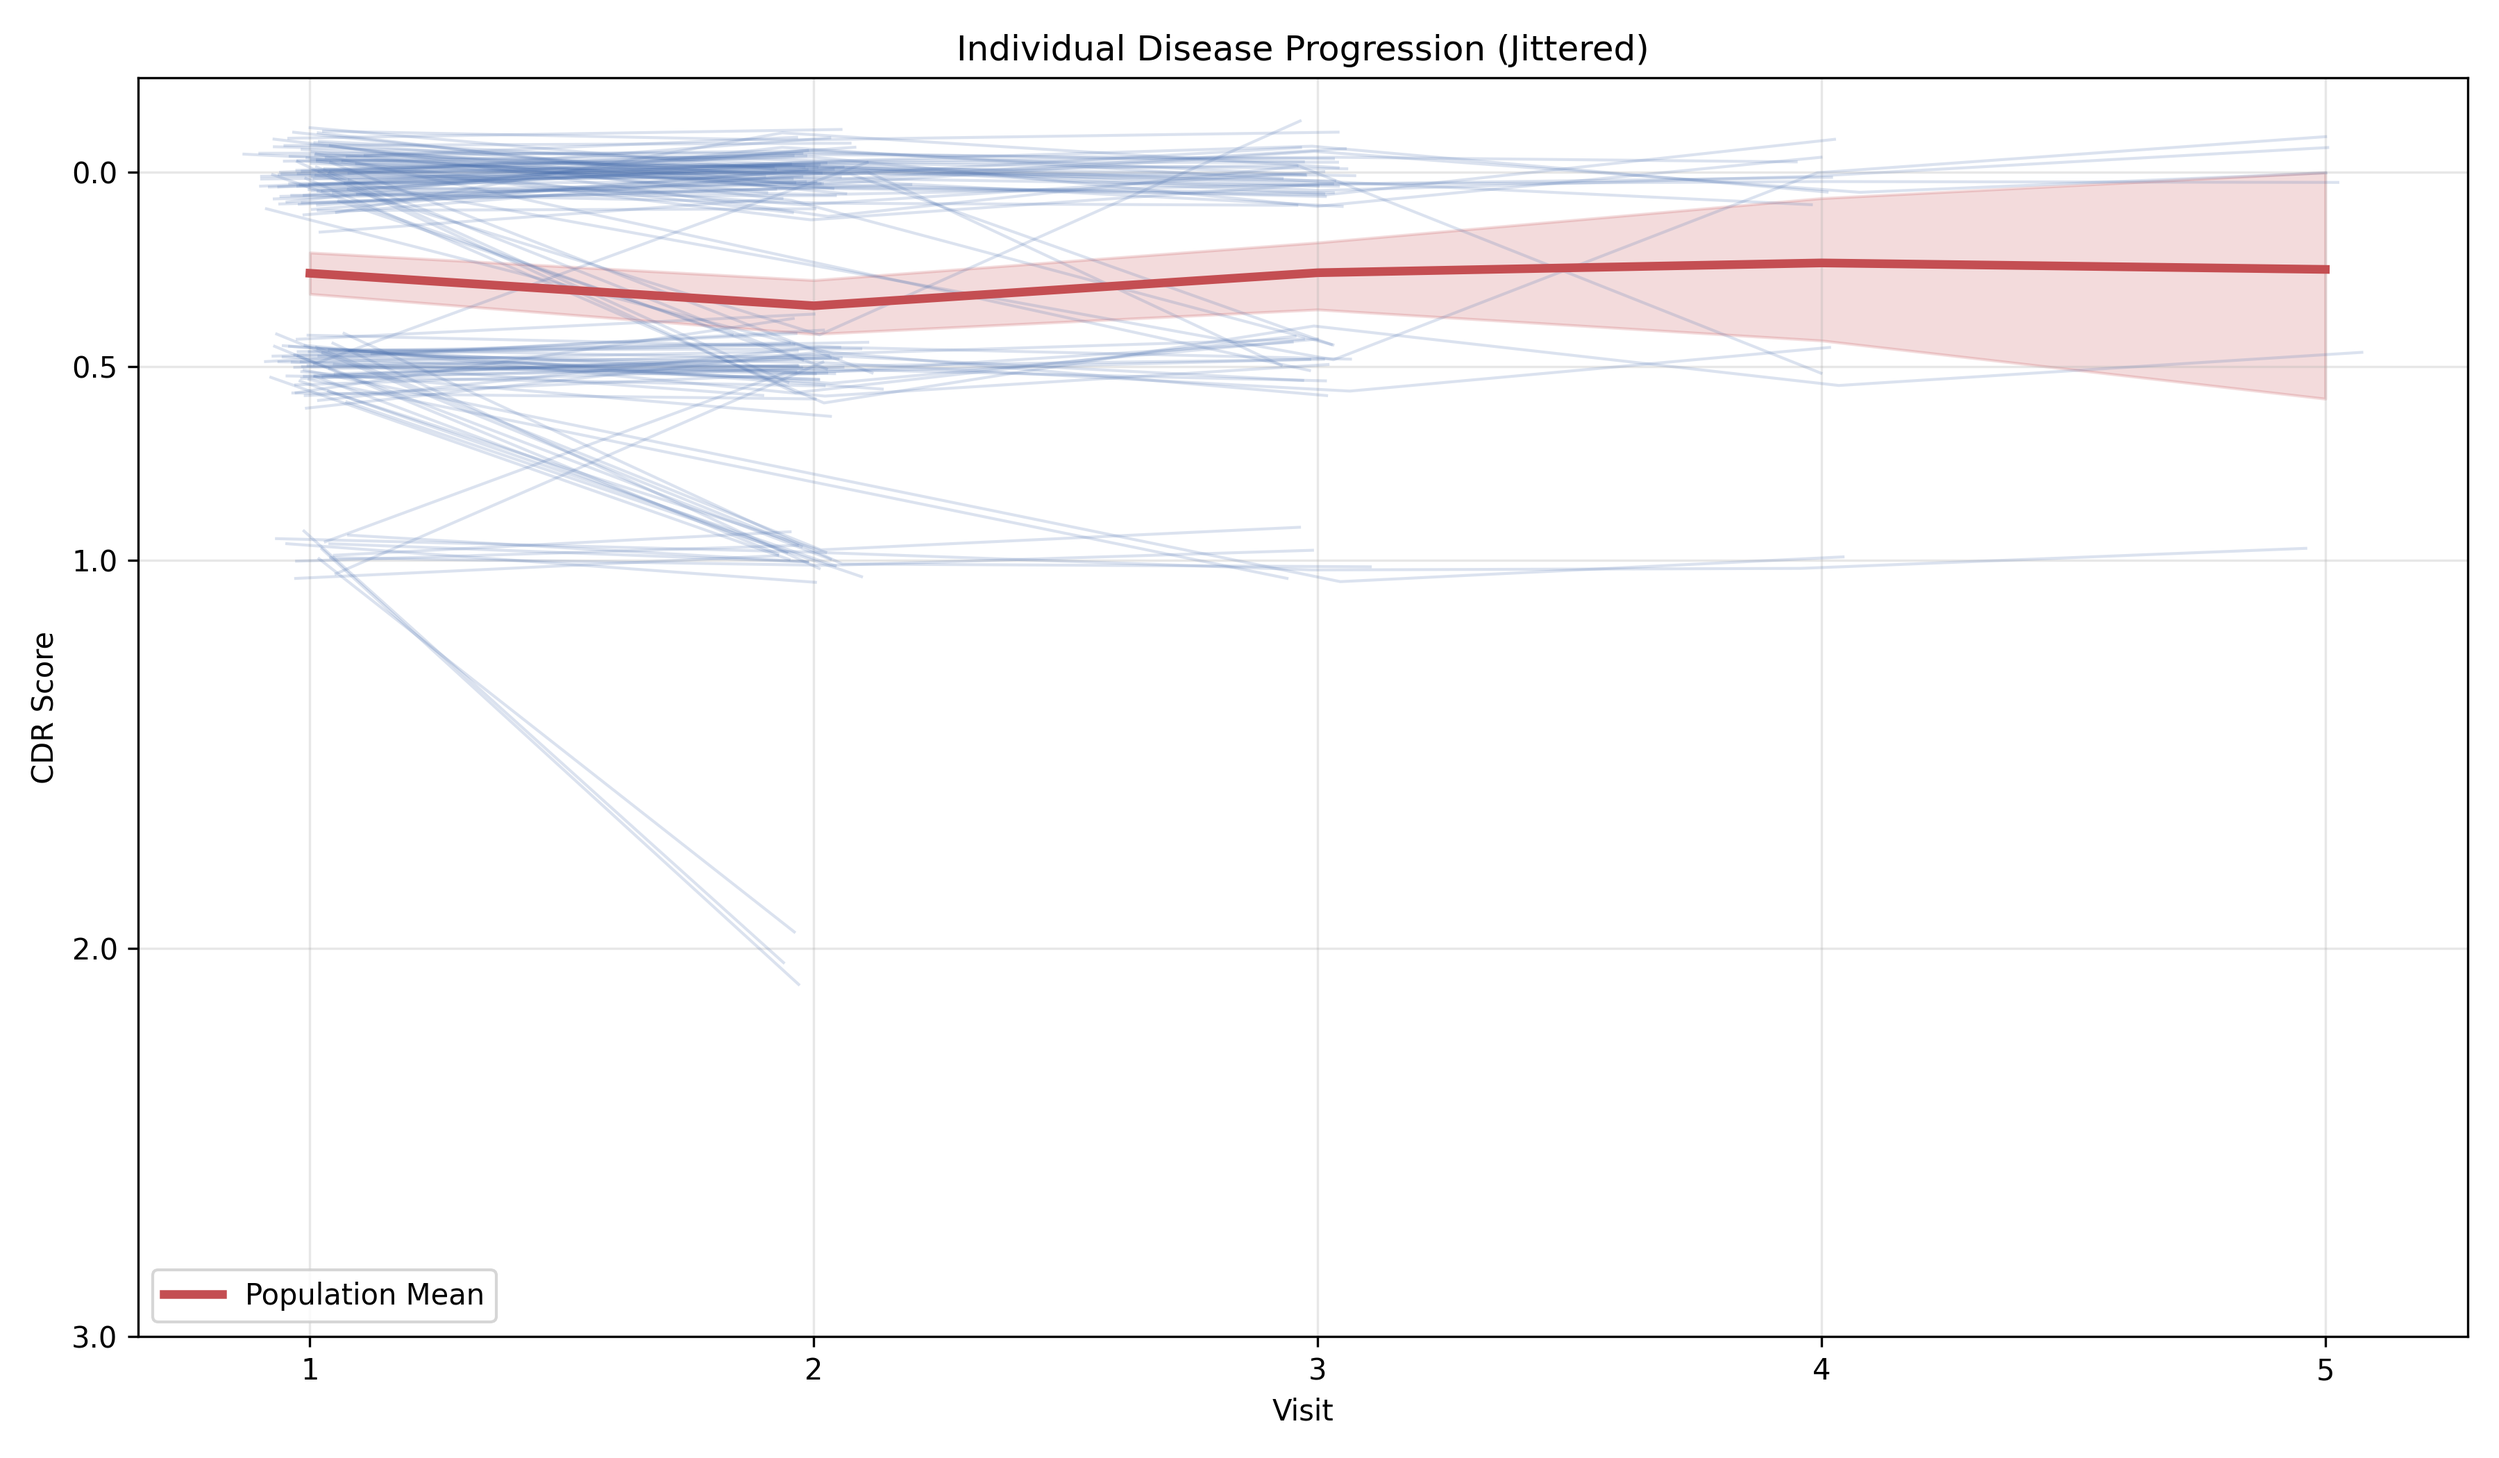
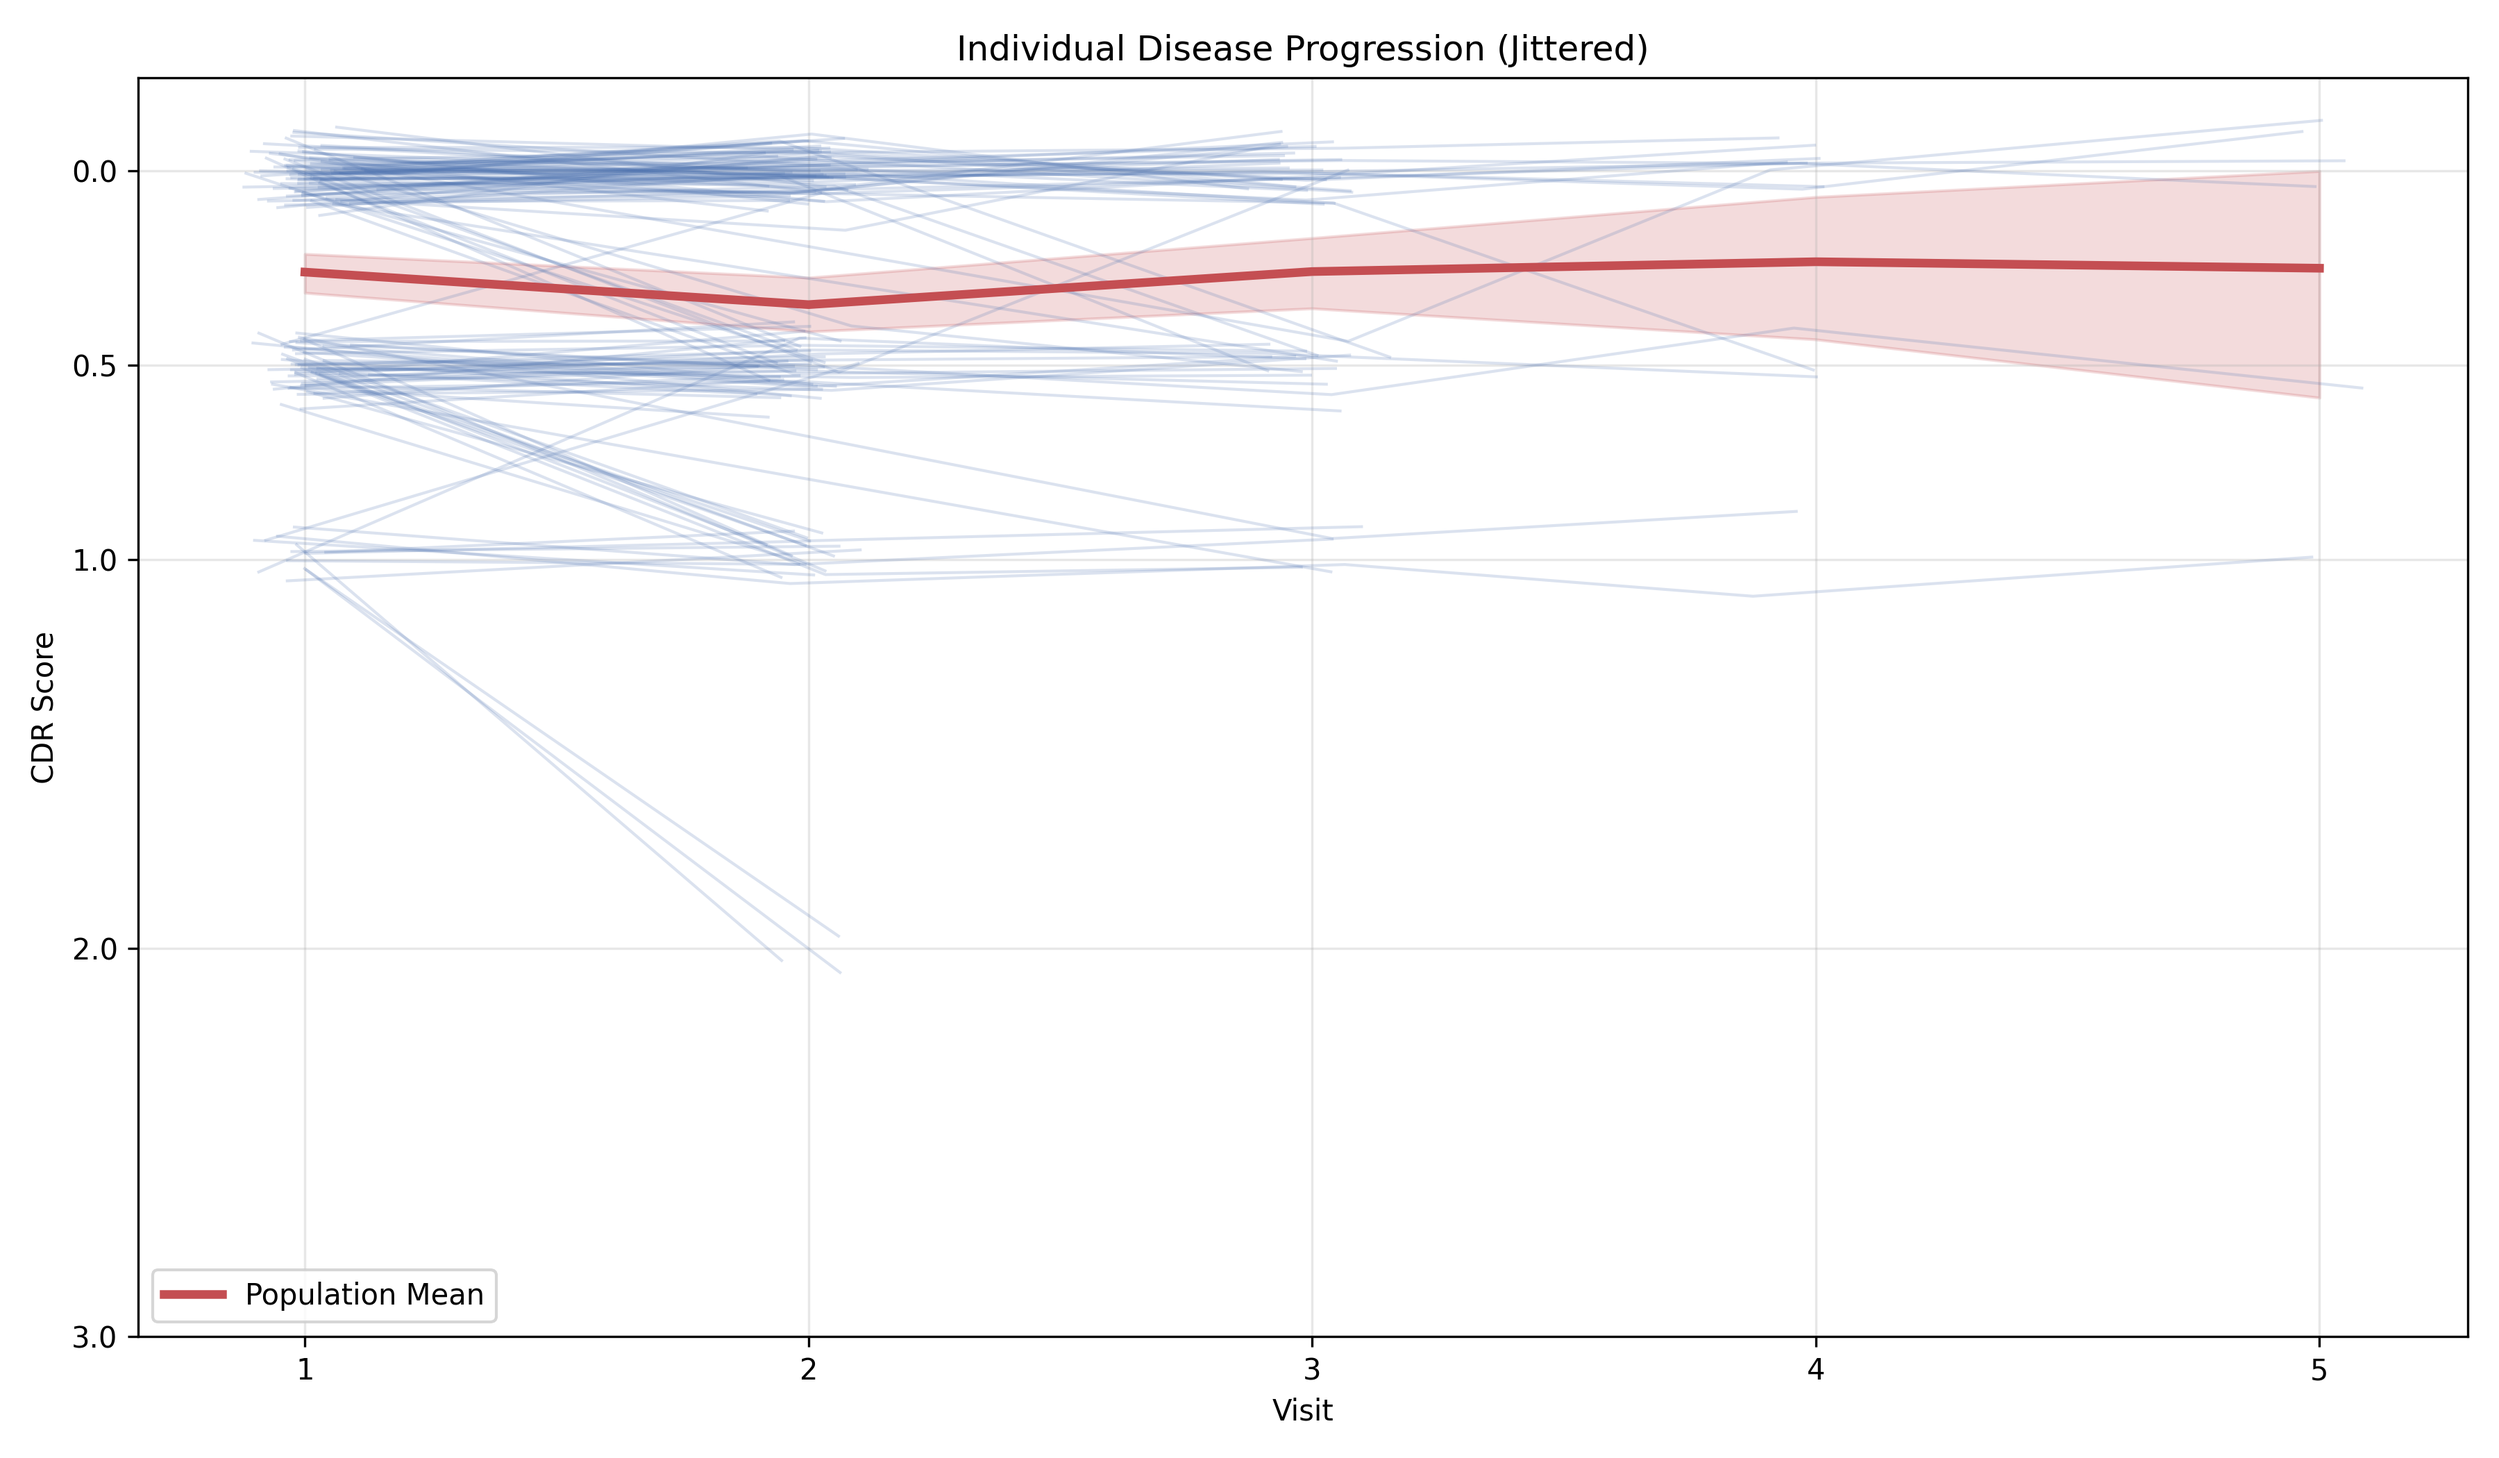
MODIFY Graph in t3 and disease progression def in task 2

diff --git a/scripts/task2.py b/scripts/task2.py
@@ -11,9 +11,6 @@ from sklearn.preprocessing import StandardScaler
 from sklearn.metrics import f1_score, accuracy_score
 import plotly.express as px
 
-rng = np.random.RandomState(31)
-output_dir = "../results"
-
 def extract_data(file_path, extract_to):
     os.makedirs(extract_to, exist_ok=True)
     
@@ -80,20 +77,21 @@ def handle_nominal_and_ordinal(df):
 def create_target_variable(df):
     def parse_cdr(val):
         mapping = {
-            'none': 0.0,
-            'very mild': 0.5,
-            'mild': 1.0,
-            'moderate': 2.0,
-            'severe': 3.0
+            'none': 0.0, 'very mild': 0.5, 'mild': 1.0,
+            'moderate': 2.0, 'severe': 3.0
         }
         return mapping.get(str(val).lower(), np.nan)
 
-    combined_df['CDR_numeric'] = combined_df['CDR'].apply(parse_cdr)
-    baseline_cdr = combined_df[combined_df['visit'] == 1][['ID', 'CDR_numeric']].rename(columns={'CDR_numeric': 'baseline_CDR'})
-    max_cdr = combined_df.groupby('ID')['CDR_numeric'].max().reset_index().rename(columns={'CDR_numeric': 'max_CDR'})
-    target_df = pd.merge(baseline_cdr, max_cdr, on='ID')
-    target_df['worsened'] = (target_df['max_CDR'] > target_df['baseline_CDR']).astype(int)
-    df_final = pd.merge(combined_df, target_df[['ID', 'worsened']], on='ID', how='left')
+    df['CDR_numeric'] = df['CDR'].apply(parse_cdr)
+    
+    baseline_df = df[df['visit'] == 1][['ID', 'CDR_numeric']].rename(columns={'CDR_numeric': 'baseline_CDR'})
+    
+    last_visit_df = df.sort_values('visit').groupby('ID').tail(1)[['ID', 'CDR_numeric']]
+    last_visit_df = last_visit_df.rename(columns={'CDR_numeric': 'final_CDR'})
+    target_df = pd.merge(baseline_df, last_visit_df, on='ID')
+    target_df['worsened'] = (target_df['final_CDR'] > target_df['baseline_CDR']).astype(int)
+    df_final = pd.merge(df, target_df[['ID', 'worsened']], on='ID', how='left')
+    
     return df_final
 
 def plot_disease_progression(df_final):
@@ -106,7 +104,6 @@ def plot_disease_progression(df_final):
     plot_df['CDR_numeric'] = plot_df['CDR_numeric'].astype(float)
     
     # Jittering (Adding Noise)
-    rng = np.random.RandomState(42)
     noise_level = 0.05
     
     # Now this addition will work because both are numbers
@@ -248,6 +245,9 @@ def logisitic_regression_with_penalty(X, y,rng):
 
 
 if __name__ == "__main__": 
+
+    rng = np.random.RandomState(31)
+    output_dir = "../results"
 
     script_dir = os.path.dirname(os.path.abspath(__file__))
     data_dir = os.path.join(script_dir, '..', 'data')

diff --git a/scripts/task3.py b/scripts/task3.py
@@ -484,7 +484,7 @@ def plot_learning_curves(rng, cv, x, y, preprocessor):
     plt.plot(train_sizes, train_scores_mean, 'o-', color="r", label="Training Score")
     plt.fill_between(train_sizes, test_scores_mean - test_scores_std,
                      test_scores_mean + test_scores_std, alpha=0.1, color="g")
-    plt.plot(train_sizes, test_scores_mean, 'o-', color="g", label="Cross-Validation Score")
+    plt.plot(train_sizes, test_scores_mean, 'o-', color="g", label="Test Score")
 
     plt.legend(loc="best")
     plot_path = os.path.join(results_dir, "learning_curves.png")
@@ -521,16 +521,16 @@ if __name__ == "__main__":
     # gradient_boosted_grid_search(rng, cv, x, y, preprocessor)
     # knn_grid_search(cv, x, y, preprocessor)
 
-    results_df = best_hyperparam_run(rng, cv, x, y, preprocessor)
+    # results_df = best_hyperparam_run(rng, cv, x, y, preprocessor)
 
-    pd.set_option('display.float_format', lambda x: '%.4f' % x)
-    print(results_df.sort_values(by="Mean F1 Score", ascending=False).to_markdown(index=False))
+    # pd.set_option('display.float_format', lambda x: '%.4f' % x)
+    # print(results_df.sort_values(by="Mean F1 Score", ascending=False).to_markdown(index=False))
 
-    plot_pr_curves_cross_val(rng, cv, x, y, preprocessor)
-    plot_feature_importance_cv(combined_df_processed, preprocessor, cat_cols, num_cols)
-    plot_pooled_confusion_matrix(rng, cv, x, y, preprocessor)
+    # plot_pr_curves_cross_val(rng, cv, x, y, preprocessor)
+    # plot_feature_importance_cv(combined_df_processed, preprocessor, cat_cols, num_cols)
+    # plot_pooled_confusion_matrix(rng, cv, x, y, preprocessor)
     plot_learning_curves(rng, cv, x, y, preprocessor)
-    results_df_ensemble = run_ensemble_improvements(rng, cv, x, y, preprocessor)
+    # results_df_ensemble = run_ensemble_improvements(rng, cv, x, y, preprocessor)
     
-    print("\n--- Final Results ---")
-    print(results_df_ensemble.sort_values(by="Avg Precision (AP)", ascending=False).to_markdown(index=False))
+    # print("\n--- Final Results ---")
+    # print(results_df_ensemble.sort_values(by="Avg Precision (AP)", ascending=False).to_markdown(index=False))
